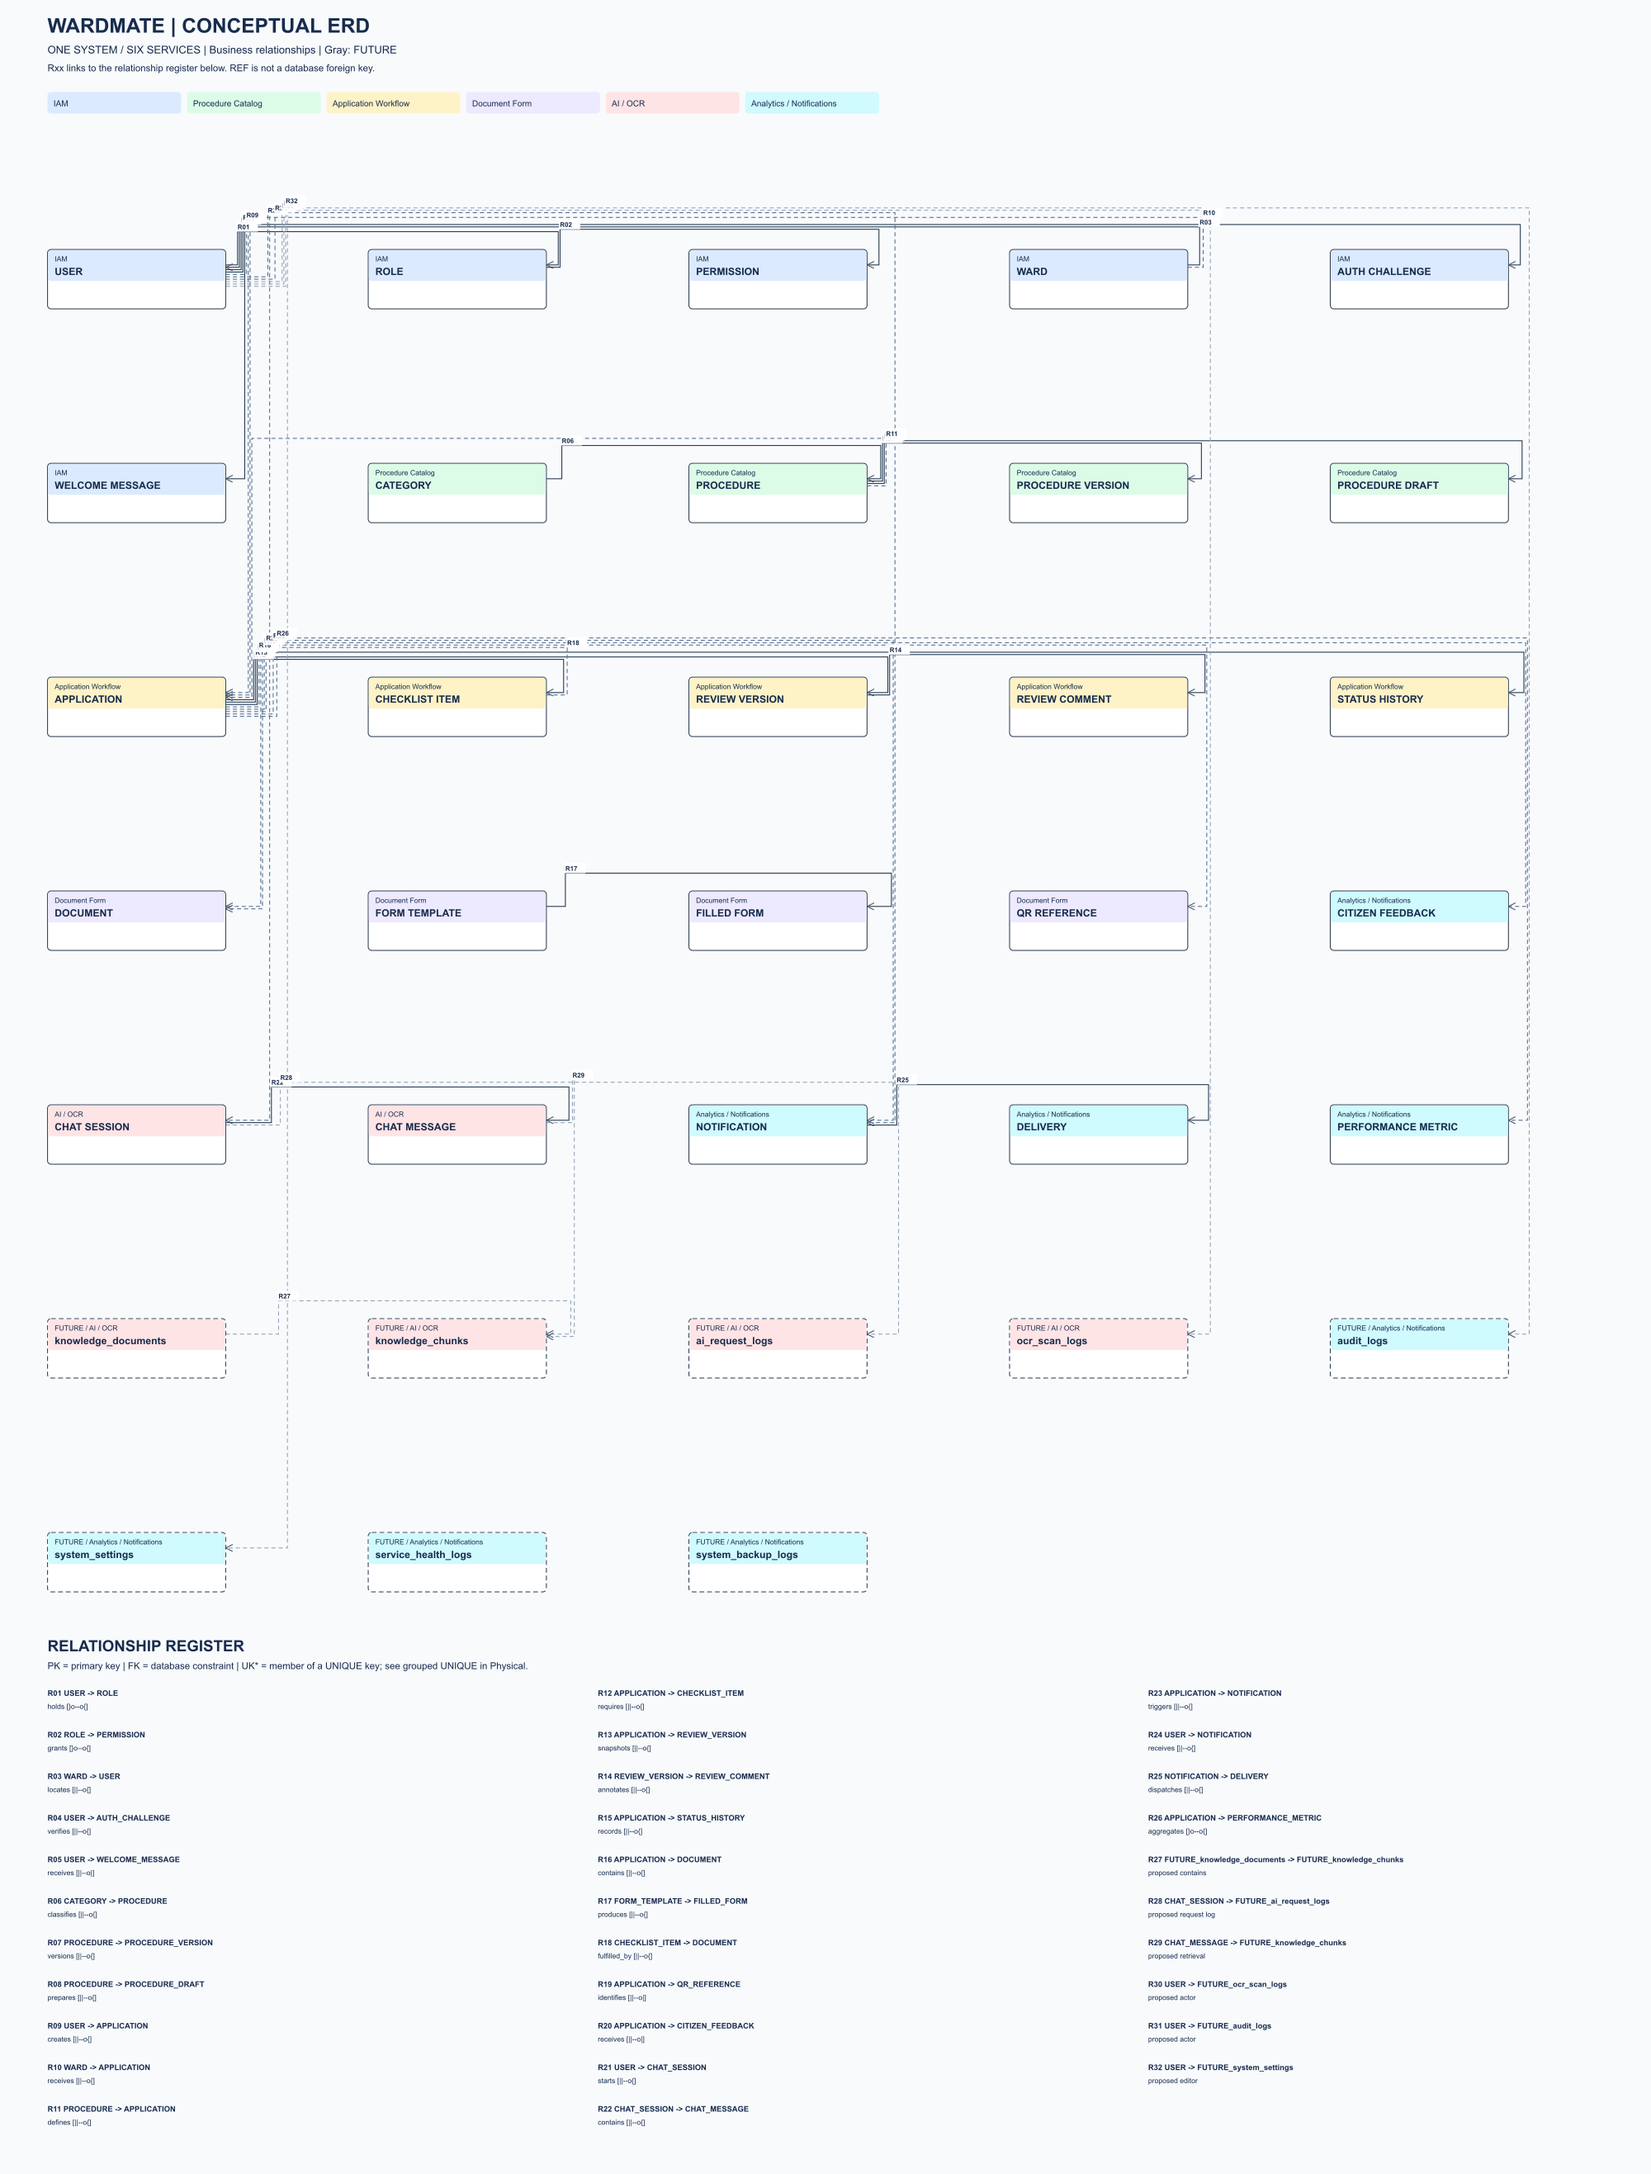
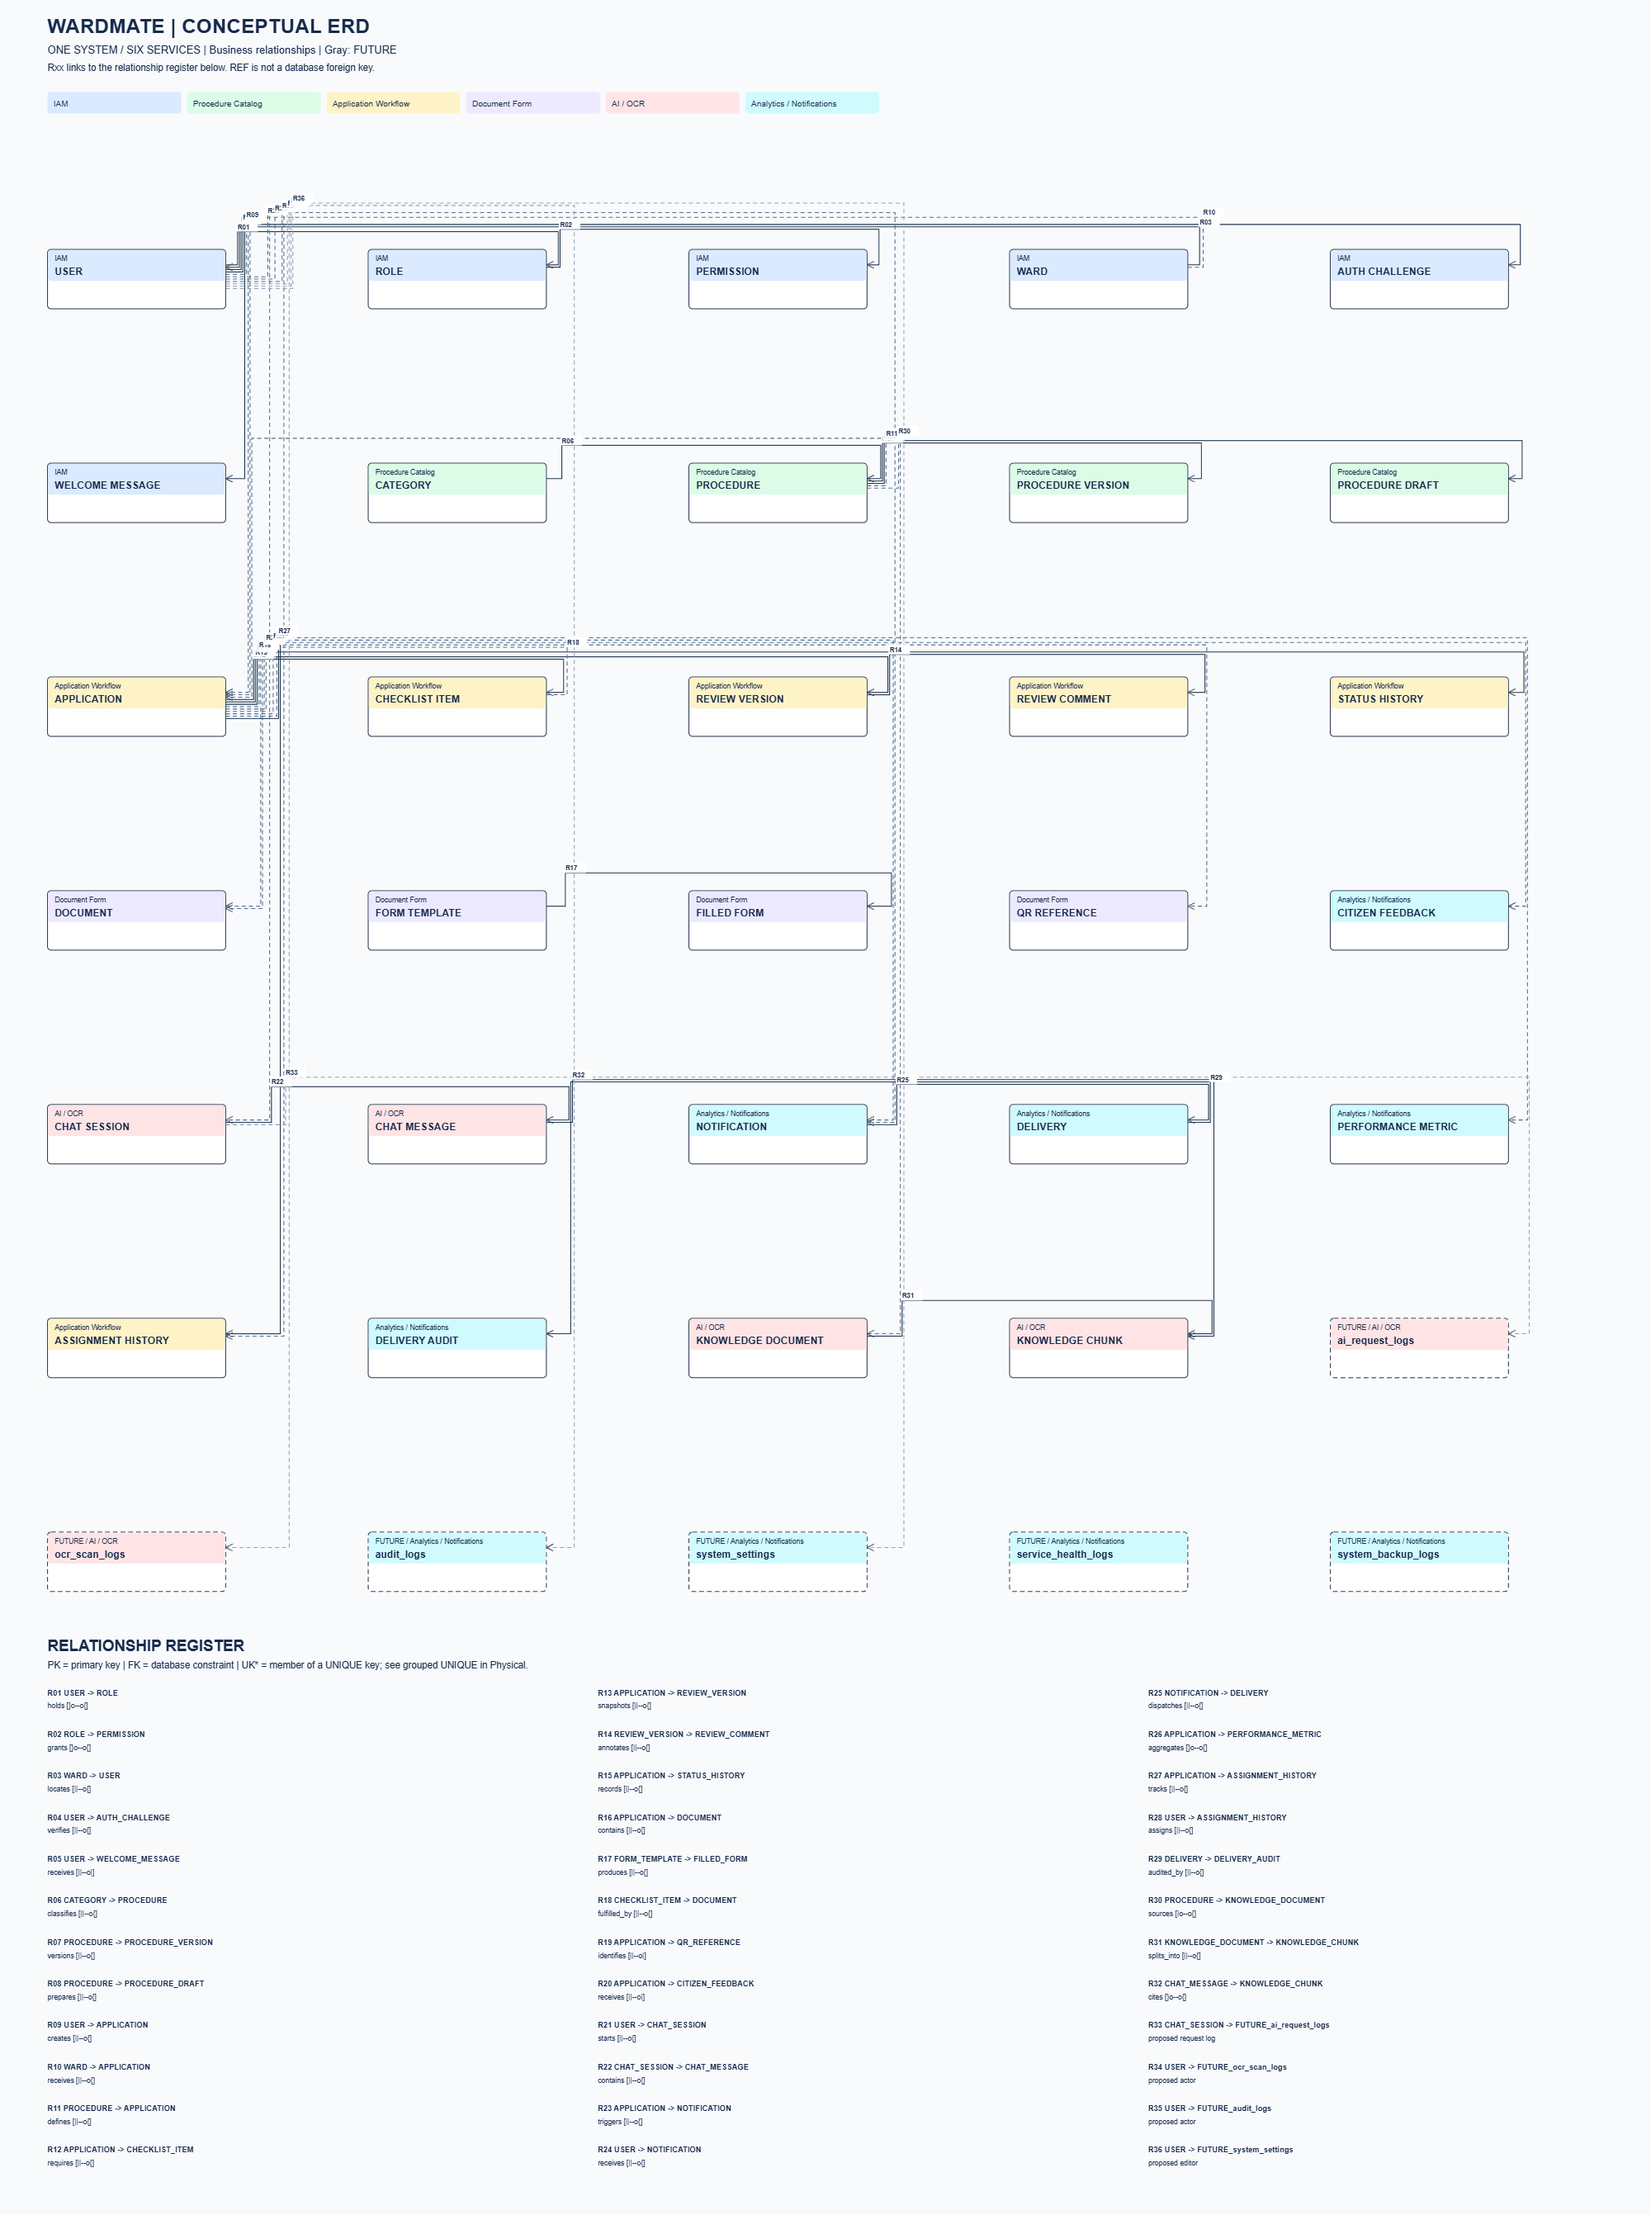
docs(erd): re-render ERD preview images for 24/10 schema

diff --git a/PROGRESS.md b/PROGRESS.md
@@ -3431,3 +3431,12 @@ Lưu ý: thay đổi chưa commit của các task trước (WORKFLOW-ASSIGN-01, 
 - File sửa: docs/diagrams/erd/schema/*.sql (7), model-inventory.json, conceptual.mmd, logical.mmd, future.mmd, physical-*.mmd (7), generate-erd.cjs, generate-drawio.cjs, wardmate-erd.drawio, conceptual.svg, logical.svg, physical.svg, README.md, wardmate-erd-interactive.html, wardmate-erd-en.drawio; docs/system-erd-conceptual.md, system-unified-erd.md, system-erd-physical.md, system-diagrams.md, erd-drawing-guide.txt, CLAUDE_HANDOFF.md; PROGRESS.md. Không có file mới.
 - Giới hạn: ảnh conceptual-preview.png, logical-preview.png, physical-preview.png là bản 23/10, chưa render lại. Chưa mở thử file draw.io trong ứng dụng draw.io. Không đối chiếu schema Azure. Chỉ tài liệu; không build lại backend (build Release gần nhất của TASK-29 đạt 0/0), không Git.
 - Commit gợi ý cho Antigravity (thêm sau kế hoạch TASK-28/29, không gộp): docs(erd): refresh schema exports and model inventory for 24/10 schema; docs(erd): mark knowledge tables implemented and add new relations in generators; docs(erd): regenerate three-page diagrams and ERD docs; docs(erd): update interactive and English draw.io ERD; docs(erd): update manual drawing guide to 41 tables.
+
+
+## ERD-DRAWIO-VERIFY — Kiểm tra draw.io và render lại preview — 2026-10-24 (Asia/Saigon, UTC+07:00)
+- Mở cả docs/diagrams/erd/wardmate-erd.drawio và wardmate-erd-en.drawio bằng bộ hiển thị chính thức của diagrams.net (viewer-static.min.js) trên trang kiểm tra local (scratchpad, ngoài repo).
+- Kết quả: mỗi file đúng 3 trang Conceptual/Logical/Physical. Bản tiếng Anh: 42/508/508 đỉnh, 44/72/72 cạnh; bản 3 trang cũ: 78/126/126 đỉnh, 36/72/72 cạnh. 0 cạnh thiếu nguồn/đích. Đọc chữ draw.io đã dựng trong DOM: 0 nhãn lộ mã HTML; có đủ knowledge_documents, application_assignment_history, notification_delivery_audits, ai_request_logs và khái niệm mới.
+- Giới hạn kỹ thuật: không xuất được ảnh PNG đúng giao diện draw.io cho bản tiếng Anh vì nhãn HTML dùng foreignObject (trình duyệt chặn đọc canvas); thử tắt foreignObject thì draw.io in mã nhãn thô, nên ảnh đó không dùng làm kết quả. Kiểm tra bản tiếng Anh dựa trên dữ liệu dựng được trong DOM, không phải ảnh.
+- Render lại conceptual-preview.png (2000×2683), logical-preview.png (2000×3387), physical-preview.png (2000×3077) từ các SVG đã sinh 24/10; đã xem ảnh Conceptual.
+- File sửa: docs/diagrams/erd/conceptual-preview.png, logical-preview.png, physical-preview.png; docs/CLAUDE_HANDOFF.md; PROGRESS.md. Không đổi nội dung .drawio (đã đúng). Không build backend, không Git.
+- Commit gợi ý (thêm vào lượt ERD): docs(erd): re-render ERD preview images for 24/10 schema.
